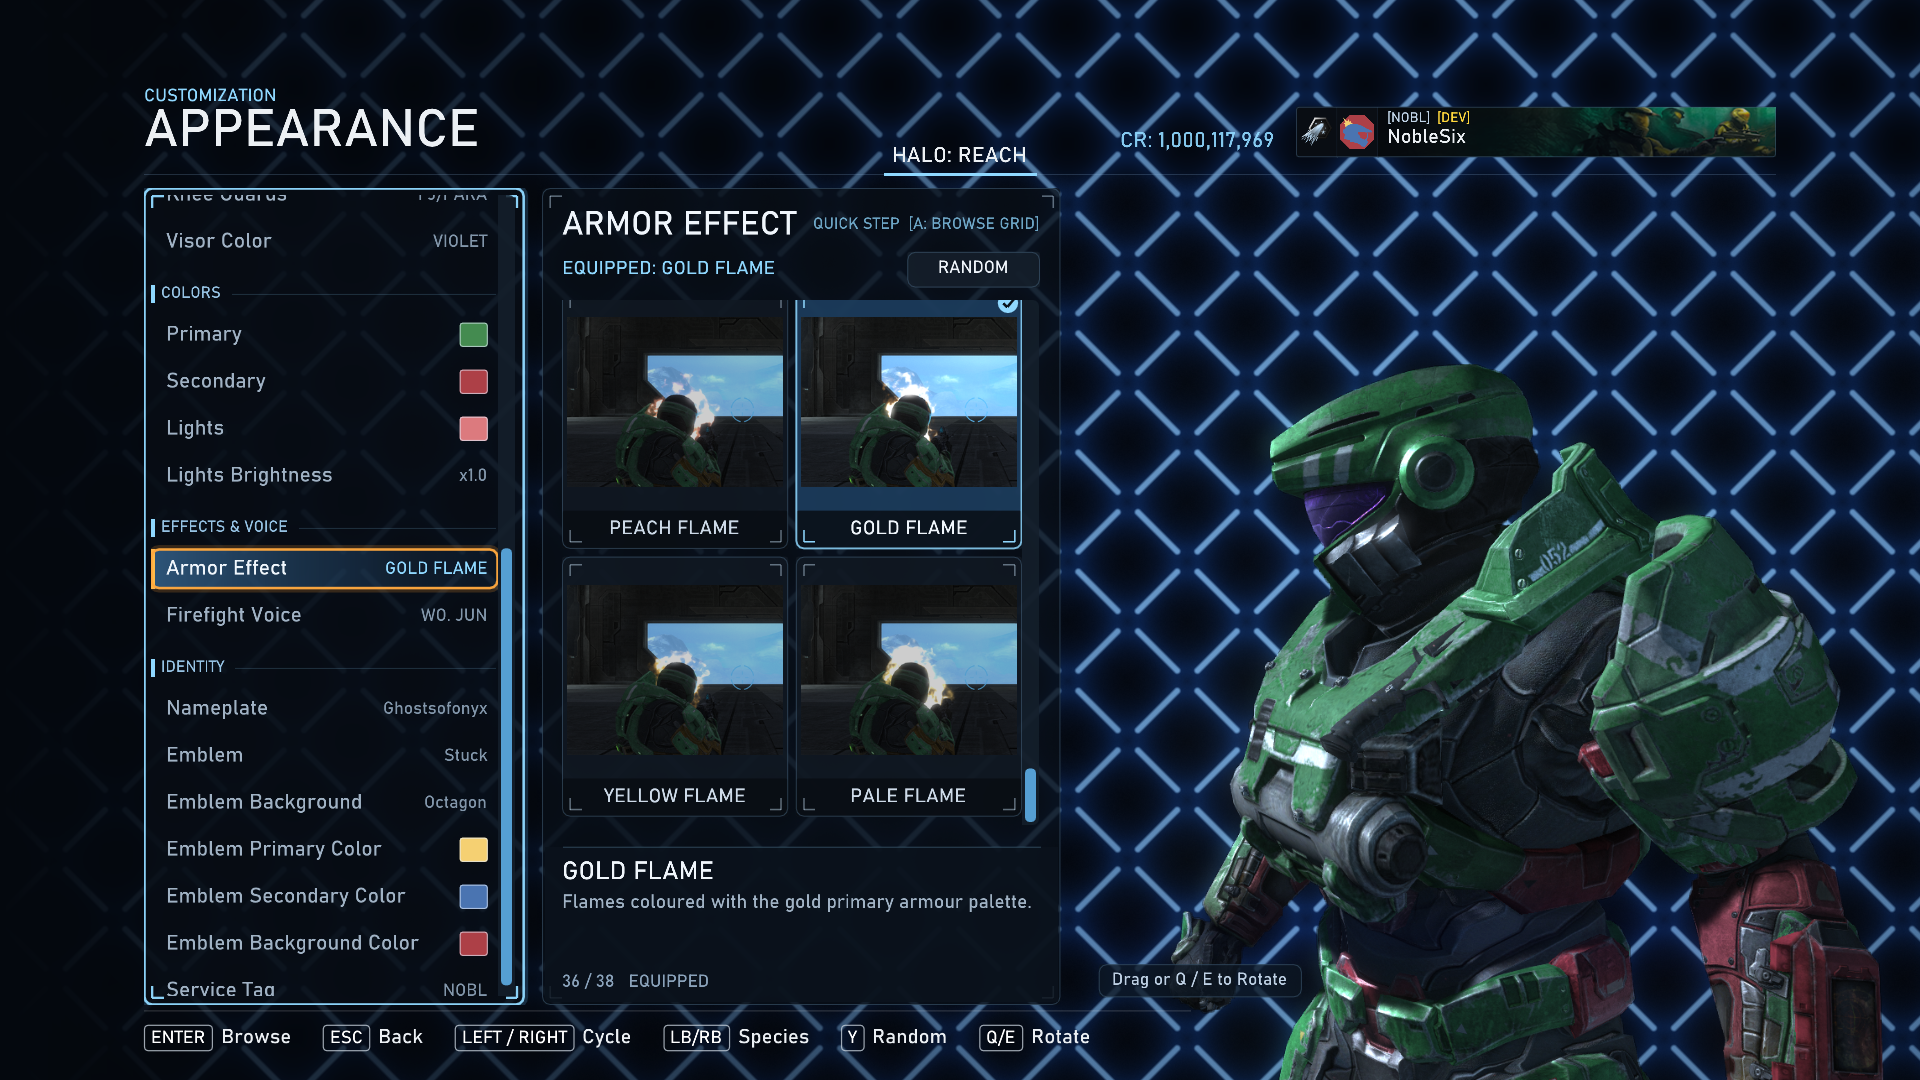
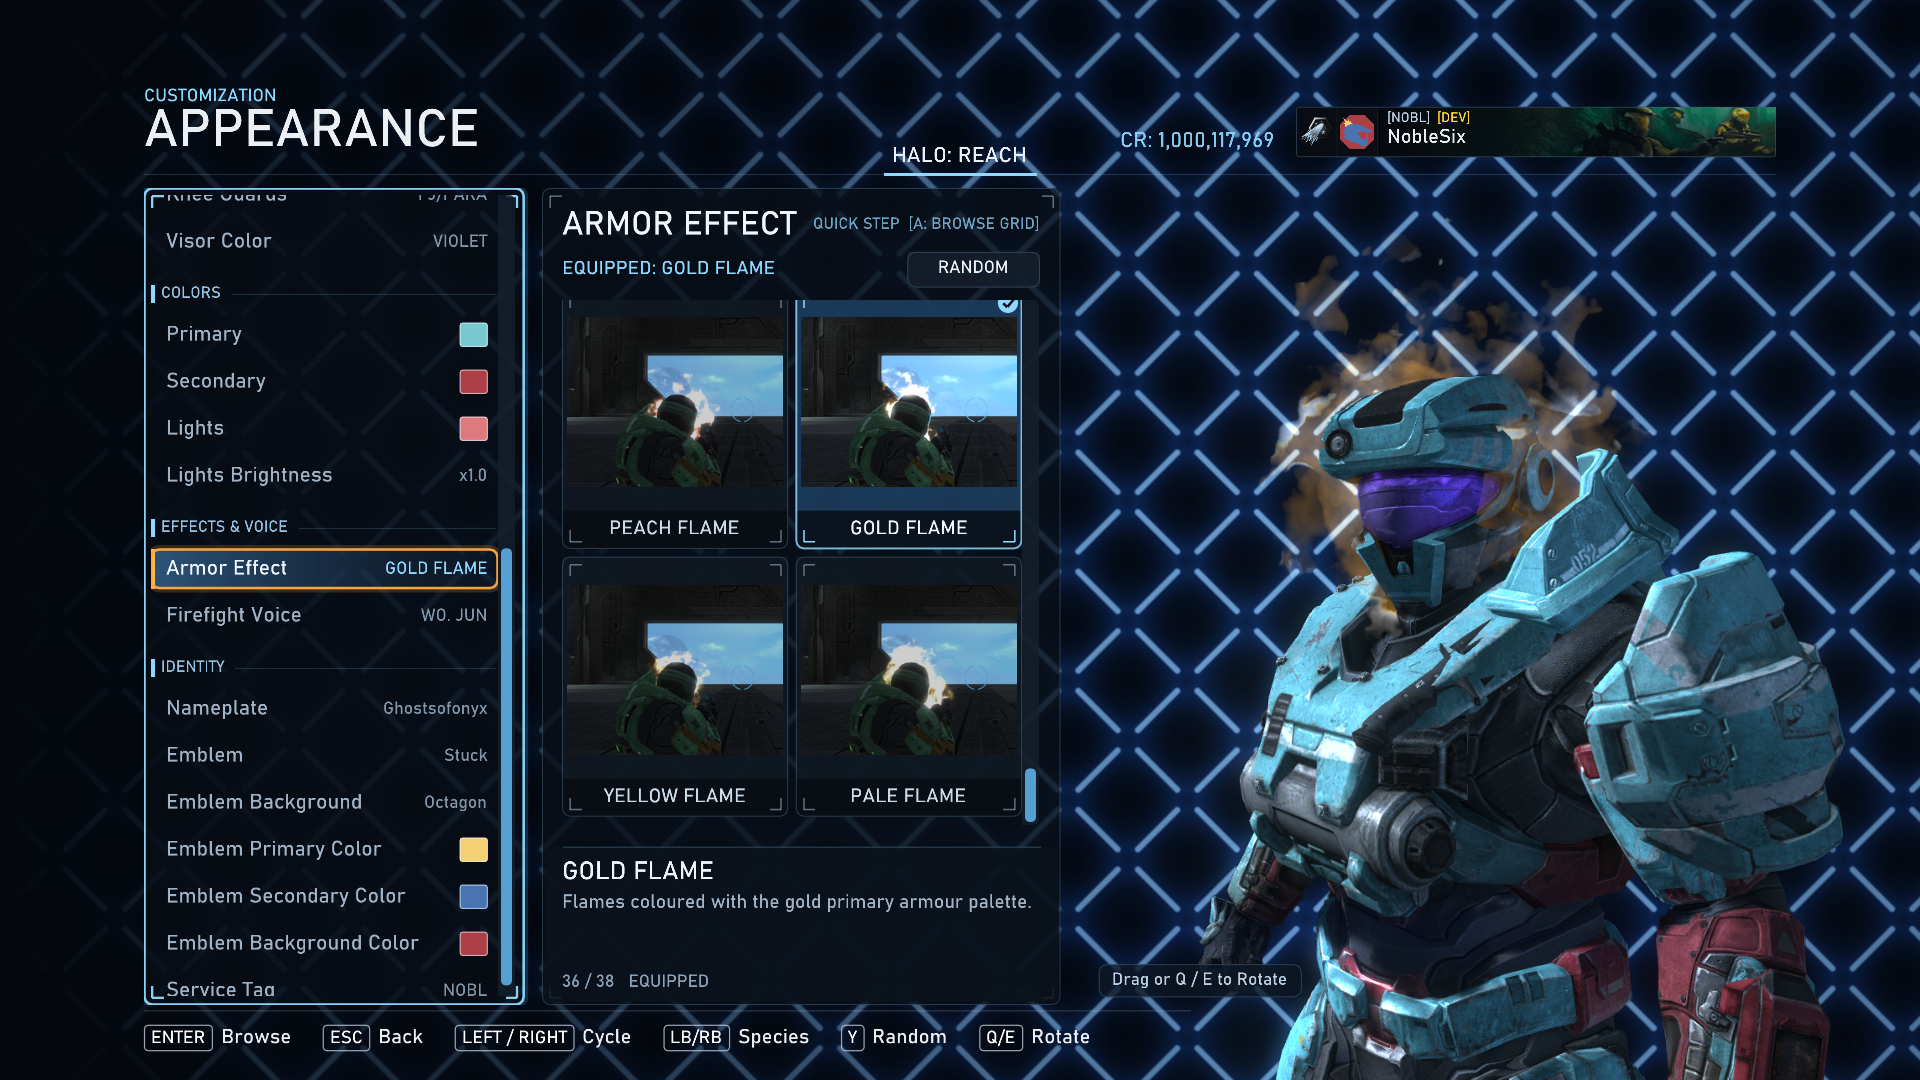
Armor FX runtime: fix last six colours in match and Armory equipped preview

Changed region(s): [[0.5938, 0.2444, 1.0, 1.0], [0.2188, 0.3056, 0.25, 0.3361]]

diff --git a/src/engine/ReachArmory.cpp b/src/engine/ReachArmory.cpp
@@ -1453,6 +1453,12 @@ static int PrimaryFlameVariantForEffect(const std::string& id, int primaryColorI
 
 static std::string PmcgEffectName(const std::string& id, int primaryColorIndex) {
     const int variant = PrimaryFlameVariantForEffect(id, primaryColorIndex);
+    // Variants 24..29 have no extra effect slot in the menu map. Preview them through the first custom
+    // effect (steel variant) and let the runtime palette recolour its 256x16 palette to the requested colour.
+    if (variant >= 24) {
+        std::string item, region, perm;
+        if (ArmorFlamePmcgTarget(0, item, region, perm)) return item;
+    }
     if (variant >= 0) {
         std::string item, region, perm;
         if (ArmorFlamePmcgTarget(variant, item, region, perm)) return item;
@@ -1467,6 +1473,10 @@ static std::string PmcgEffectName(const std::string& id, int primaryColorIndex) 
 
 static std::string PermutationForArmorEffect(const std::string& id, int primaryColorIndex) {
     const int variant = PrimaryFlameVariantForEffect(id, primaryColorIndex);
+    if (variant >= 24) {
+        std::string item, region, perm;
+        if (ArmorFlamePmcgTarget(0, item, region, perm)) return perm;
+    }
     if (variant >= 0) {
         std::string item, region, perm;
         if (ArmorFlamePmcgTarget(variant, item, region, perm)) return perm;

diff --git a/src/engine/ParticleTint.hpp b/src/engine/ParticleTint.hpp
@@ -15,6 +15,8 @@ void Install(ID3D11Device* device, ID3D11DeviceContext* context);
 // Called from the DXGI Present hook: obtains the device/immediate context that owns the presenting
 // swapchain (the engine may have its own context, separate from the launcher's) and hooks it.
 void HookFromSwapChain(struct IDXGISwapChain* swapChain);
+// Hooks the context that owns an arbitrary engine draw (e.g. the menu/Armory preview context).
+void HookFromContext(struct ID3D11DeviceContext* context);
 // Selects one of kPrimaryFlames (0..29) for the local player's runtime flame palette; -1 disables
 // the override (stock effect colours). Called when the profile appearance is built.
 void SetVariantIndex(int variantIndex);

diff --git a/src/ui/FrontEndMenu.cpp b/src/ui/FrontEndMenu.cpp
@@ -1,4 +1,5 @@
 #include "FrontEndInternal.hpp"
+#include "engine/ParticleTint.hpp"
 #include "hooks/LobbyPatches.hpp"
 #include "host/SlotPatch.hpp"
 
@@ -1037,6 +1038,7 @@ bool s_depthValid = false;
 void STDMETHODCALLTYPE HookClearDsv(ID3D11DeviceContext *ctx,
                                     ID3D11DepthStencilView *dsv, UINT flags,
                                     FLOAT depth, UINT8 stencil) {
+  noble::ParticleTint::HookFromContext(ctx);
   if (dsv && (flags & D3D11_CLEAR_DEPTH)) {
     ID3D11Resource *res = nullptr;
     dsv->GetResource(&res);

diff --git a/src/engine/ParticleTint.cpp b/src/engine/ParticleTint.cpp
@@ -381,6 +381,13 @@ void HookFromSwapChain(IDXGISwapChain* swapChain) {
     HookContext(device.Get(), context.Get());
 }
 
+void HookFromContext(ID3D11DeviceContext* context) {
+    if (!context) return;
+    Microsoft::WRL::ComPtr<ID3D11Device> device;
+    context->GetDevice(device.GetAddressOf());
+    HookContext(device.Get(), context);
+}
+
 void Install(ID3D11Device* device, ID3D11DeviceContext* context) {
     if (!s_armed.exchange(true)) {
         ParseTintColour();

diff --git a/docs/05-research-and-prompts/RE-ARMOR-FX-RUNTIME-COLOR-PLAN-2026-11-17.md b/docs/05-research-and-prompts/RE-ARMOR-FX-RUNTIME-COLOR-PLAN-2026-11-17.md
@@ -224,3 +224,22 @@ RenderDoc/qrenderdoc inspection of the five flame draws (frame 863, events 10055
   `vs_particle_state_buffer` (stride 80) and PS does `palette*v1+v2`. Current runtime colour is local/global.
 - All 30 colours should be tested by Tyler in match/Forge; the palette generation is one shared code path, and
   gold/rust/pale/brick plus the original magenta proof are confirmed.
+
+
+## 2026-11-17 05:10 - Last six colours FIXED (rust / coral / peach / gold / yellow / pale)
+
+**Symptom:** the other 24 flame variants worked; the six restored entries showed the stock orange flame and their Armory
+tiles looked stock. Two separate causes:
+
+1. **Match/profile:** custom effect selections for these six have no extra effect tag slot, so the old path wrote a pmcg
+   item with no attachment. ReachHost now writes the **stock LEGENDARY effect item** for every runtime variant and lets
+   `ParticleTint::SetVariantIndex` supply the palette. Verified on stock Forge World: rust (32), coral (33), peach (34),
+   gold (35), yellow (36), pale (37) all produce the correct flame colour. Proof:
+   `docs/evidence/armor-fx-primary-2026-11-17/runtime-six-colours.png`.
+2. **Armory equipped preview:** the six were previewed through `legendary_flame`, whose menu-map palette is not the
+   256x16 particle palette the runtime hook matches. They are now previewed through the **steel custom effect** (an
+   existing custom effect with the 256x16 palette) and the runtime palette recolours it to the selected colour. The
+   Armory context is hooked through the existing Armory depth-clear hook (`ParticleTint::HookFromContext`), so the
+   equipped character preview shows the correct colour (gold screenshot: `runtime-armory-gold.png`).
+   - The six **grid thumbnails** are still generic stock pictures until Tyler's photo pass; the equipped 3D preview and
+     in-match flames are correct.

diff --git a/docs/evidence/armor-fx-primary-2026-11-17/README.md b/docs/evidence/armor-fx-primary-2026-11-17/README.md
@@ -7,7 +7,8 @@ Captures from the working 24-colour build and earlier 30-variant experiments. Se
 |---|---|
 | runtime-tint-proof.png | Stock Forge World + stock LEGENDARY flames recoloured magenta by the runtime palette hook (no map rebuild/mod). |
 | runtime-variants-contact.png | Automatic profile-driven runtime colours on stock Forge World: gold, rust, pale, brick (stock effects + runtime palette only). |
-| runtime-armory-gold.png | Armory with 30 primary-flame entries restored; GOLD FLAME selected. |
+| runtime-armory-gold.png | Armory with 30 primary-flame entries restored; GOLD FLAME selected (equipped preview is gold). |
+| runtime-six-colours.png | The six previously-hidden runtime colours on stock Forge World: rust, coral, peach, gold, yellow, pale. |
 |---|---|
 | armor-fx-pri-contact-sheet.png | 6x5 contact sheet of the original 30 variant captures (pre-solid-palette; older formula). |
 | armory-auto-green-24.png | Armory PRIMARY MATCH with green primary - green flames + green armour. |

diff --git a/docs/04-project-state/TODO-MASTER-2026-11-14.md b/docs/04-project-state/TODO-MASTER-2026-11-14.md
@@ -382,3 +382,5 @@ Full index: `project-docs\REFERENCE-LIBRARY-2026-11-15.md`. Key points:
 - M2 per-player palette: **blocked by missing owner/colour data in ParticleRenderVS CB**; VS uses vs_particle_state_buffer (stride 80) and PS palette*v1+v2. Options: patch particle state buffer + PS palette-atlas index, expose owner per draw, or interim local-player-only tint. Restrict M1 matching to particle shader hash (currently any 256x16 BGRA palette).
 
 - Steps 1-3 done: slot-2 palette restriction, profile-driven runtime variant selection (stock LEGENDARY + palette), 30 variants restored in Armory, six missing colours selectable, gold/rust/pale/brick verified stock map. Remaining: Armory preview tint for six (menu path), thumbnails/photos, per-player M2, peer replication M3.
+
+- **DONE 2026-11-17 05:10:** rust/coral/peach/gold/yellow/pale runtime colours work in-match and in the equipped Armory preview. Remaining: six Armory grid thumbnails (photo pass), per-player M2, peer replication M3.

diff --git a/docs/04-project-state/HANDOFF-ARMOR-FX-COLOURS-2026-11-17.md b/docs/04-project-state/HANDOFF-ARMOR-FX-COLOURS-2026-11-17.md
@@ -254,3 +254,8 @@ tint as well; restrict matching to the particle shader hash before release.
 (Stock LEGENDARY item + `ParticleTint::SetVariantIndex`); Armory restored to 38 entries / 30 primary variants, six missing
 colours selectable again via runtime palette; verified automatic gold/rust/pale/brick on stock Forge World. Armory preview
 for the six currently shows stock flame colour, thumbnails pending Tyler. Per-player remains pending.
+
+**Last six colours fixed (2026-11-17 05:10):** rust/coral/peach/gold/yellow/pale now work on stock maps and in the
+equipped Armory preview. Match path uses stock LEGENDARY + runtime palette; Armory preview proxies through the steel
+custom effect so the menu palette is the runtime-matched 256x16 texture. Grid thumbnails for the six are still generic
+until the photo pass. Evidence: runtime-six-colours.png, runtime-armory-gold.png.

diff --git a/docs/04-project-state/WORKFLOW-LEDGER-2026-11-15.md b/docs/04-project-state/WORKFLOW-LEDGER-2026-11-15.md
@@ -371,3 +371,8 @@ Hourly continuation scheduled: 09:30-22:30 ET (schedule-32e1f9b8), target this s
   38 entries (30 variants), six hidden colours selectable again; catalog rows + null-init crash fixed.
 - Verified automatic gold (35), rust (32), pale (37), brick (30) on stock Forge World; contact sheet in evidence.
 - Caveats: Armory previews for six show stock flame colour; thumbnails pending; per-player M2 still pending.
+
+### 2026-11-17 05:10 - last six runtime colours fixed
+- Six previously-hidden variants now work: profile writes stock LEGENDARY + ParticleTint variant; Armory preview proxies
+  through steel custom effect (256x16 menu palette) so runtime recolours the equipped preview; menu context hooked via
+  Armory depth-clear hook. Verified all six on stock Forge World. Grid thumbnails still generic stock pictures.
